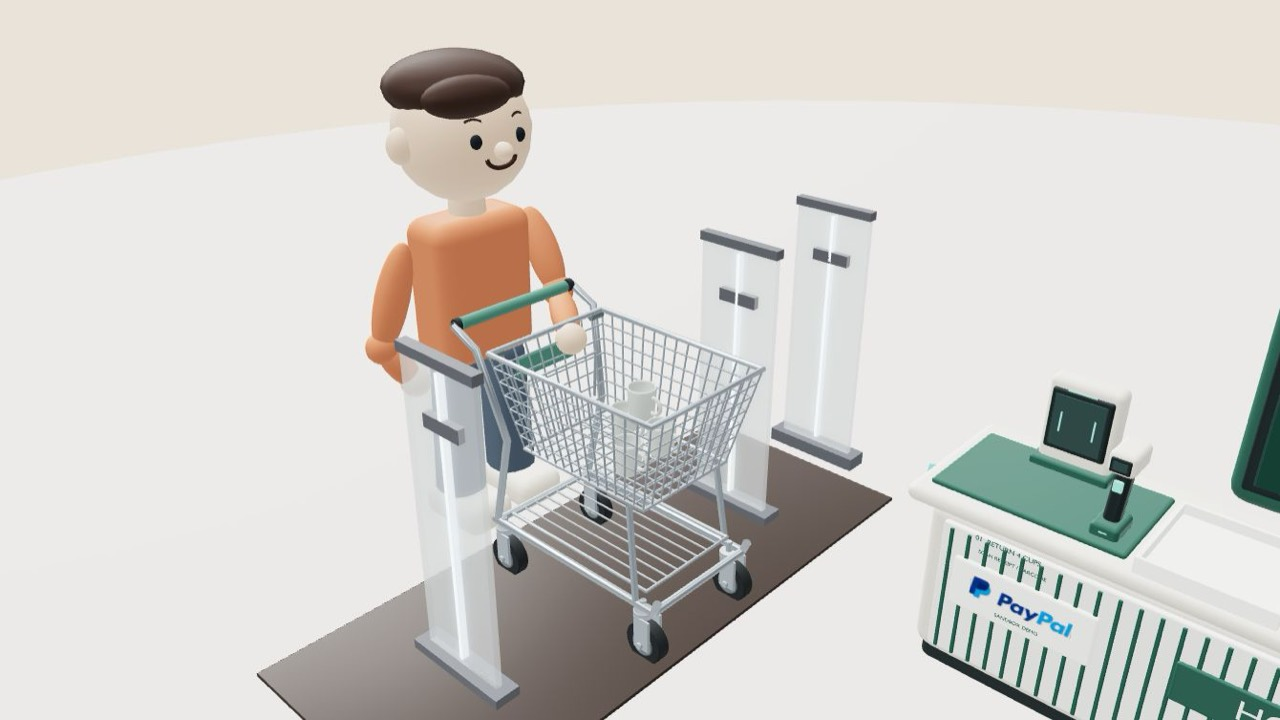
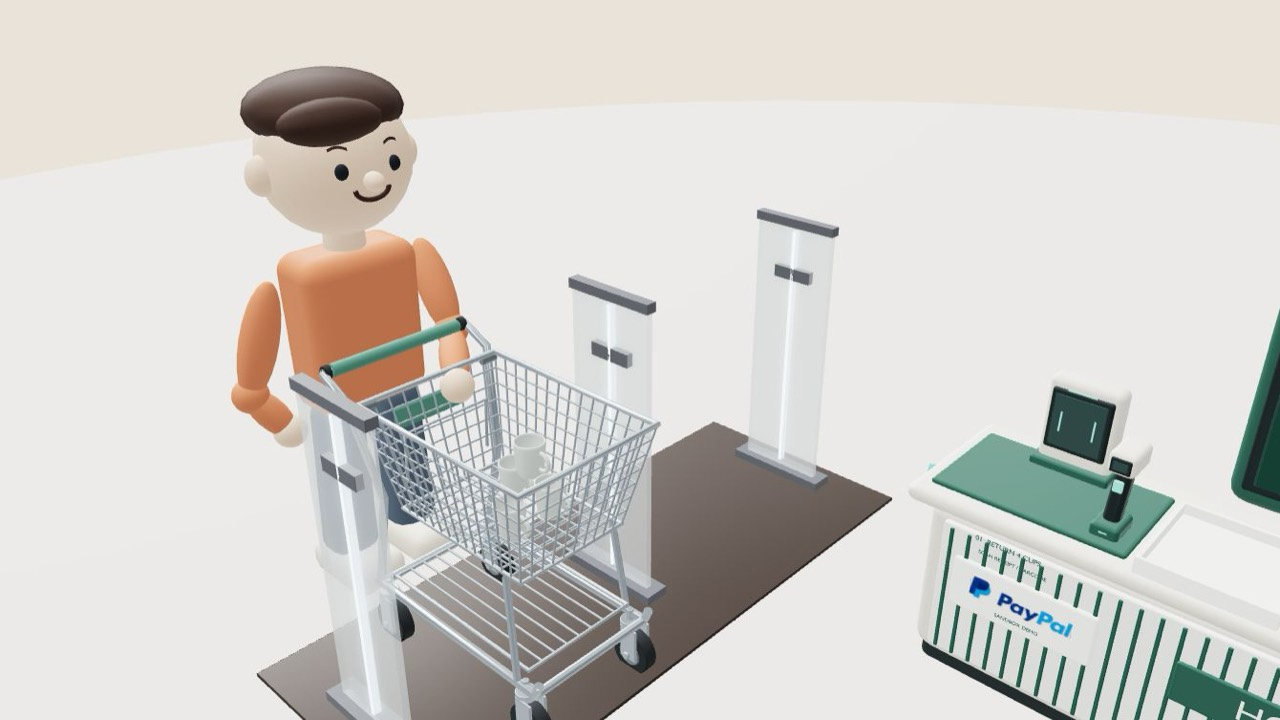
Story: exit gates evenly spaced around their mat (two 1.5 m lanes); the customer comes through the right-hand lane

Changed region(s): [[0.1562, 0.0611, 0.6875, 1.0], [0.5312, 0.275, 0.6875, 0.3972], [0.5625, 0.3972, 0.5938, 0.4278]]

diff --git a/demo/static/story.js b/demo/static/story.js
@@ -330,6 +330,12 @@ async function glView() {
       for (const o of parts) g.attach(o);
       return g;
     };
+    // the .blend's three exit gates sit 0.9 m and 2.0 m apart; centre them on their mat, two equal 1.5 m lanes
+    const GATES = { 0: -14.06, 1: -12.56, 2: -11.06 }, BAKED = { 0: -14.45, 1: -13.55, 2: -11.55 };
+    root.traverse((o) => {
+      const m = /^SE_GateExit(\d)_/.exec(o.name);
+      if (o.isMesh && m && m[1] in GATES) o.position.x += GATES[m[1]] - BAKED[m[1]];
+    });
     walker = group(/^(PC_)?Customer/, -12.63, 9.65);
     cart = group(/^(Axle|Basket|Caster|Chassis|Folded_child|HOMI_Cart|Handle_|Hub_|Lower_shelf|Rear_|Rubber_wheel|Soft_grip|Wheel_hub)/, -12.28, 9.85);
     cups = group(/^(P6_ReturnCup|P6_CupHandle|PC_Label|PC_EAN)/, -13.38, 9.9);
@@ -363,18 +369,19 @@ async function glView() {
     // step 1: through the gates pushing the cart (cups in the basket); step 2: park the cart, step up to the
     // station, put the cups on the return tray
     const lerp = (a, b, t) => a + (b - a) * t;
+    const LANE = -11.81;            // the right-hand lane between the gates
     const t1 = ease(clamp01(s)), t2 = clamp01(s - 1);
     const walkZ = lerp(14.4, 11.0, t1);
     if (walker) {
       const k = ease(clamp01((t2 - 0.25) / 0.75));
-      walker.position.set(lerp(-12.55, -12.63, k), 0, s <= 1 ? walkZ : lerp(11.0, 9.65, k));
+      walker.position.set(lerp(LANE, -12.63, k), 0, s <= 1 ? walkZ : lerp(11.0, 9.65, k));
       walker.rotation.y = -Math.PI / 2 * (1 - ease(clamp01((t2 - 0.6) / 0.4)));
       const moving = (s > 0 && s < 1) || (t2 > 0.25 && t2 < 1);
       walker.position.y = moving ? Math.abs(Math.sin(s * 22)) * 0.02 : 0;
     }
     if (cart) {                       // handle towards the customer, 1.1 m ahead while walking; parked beside the station
       const k = ease(clamp01(t2 / 0.6));
-      cart.position.set(lerp(-12.55, -11.7, k), 0, lerp(walkZ - 1.1, 9.4, k));
+      cart.position.set(lerp(LANE, -11.7, k), 0, lerp(walkZ - 1.1, 9.4, k));
       cart.rotation.y = lerp(Math.PI / 2, 0, k);
     }
     if (cups && cart) {
